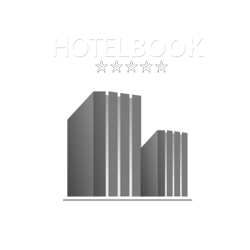
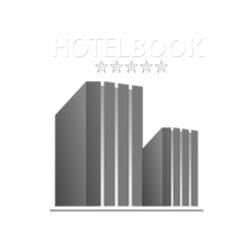
login page

Changed region(s): [[0.196, 0.308, 0.812, 0.868]]

diff --git a/src/main/webapp/resources/style/loginLogout.css b/src/main/webapp/resources/style/loginLogout.css
@@ -6,6 +6,12 @@
     margin: 16px;
 }
 
+.logo {
+    width: 100%;
+    height: 250px;
+    background: url("../images/managerLogin.png")  center no-repeat;
+}
+
 .vertical-center {
     min-height: 100%;  /* Fallback for browsers do NOT support vh unit */
     min-height: 100vh; /* These two lines are counted as one :-)       */
